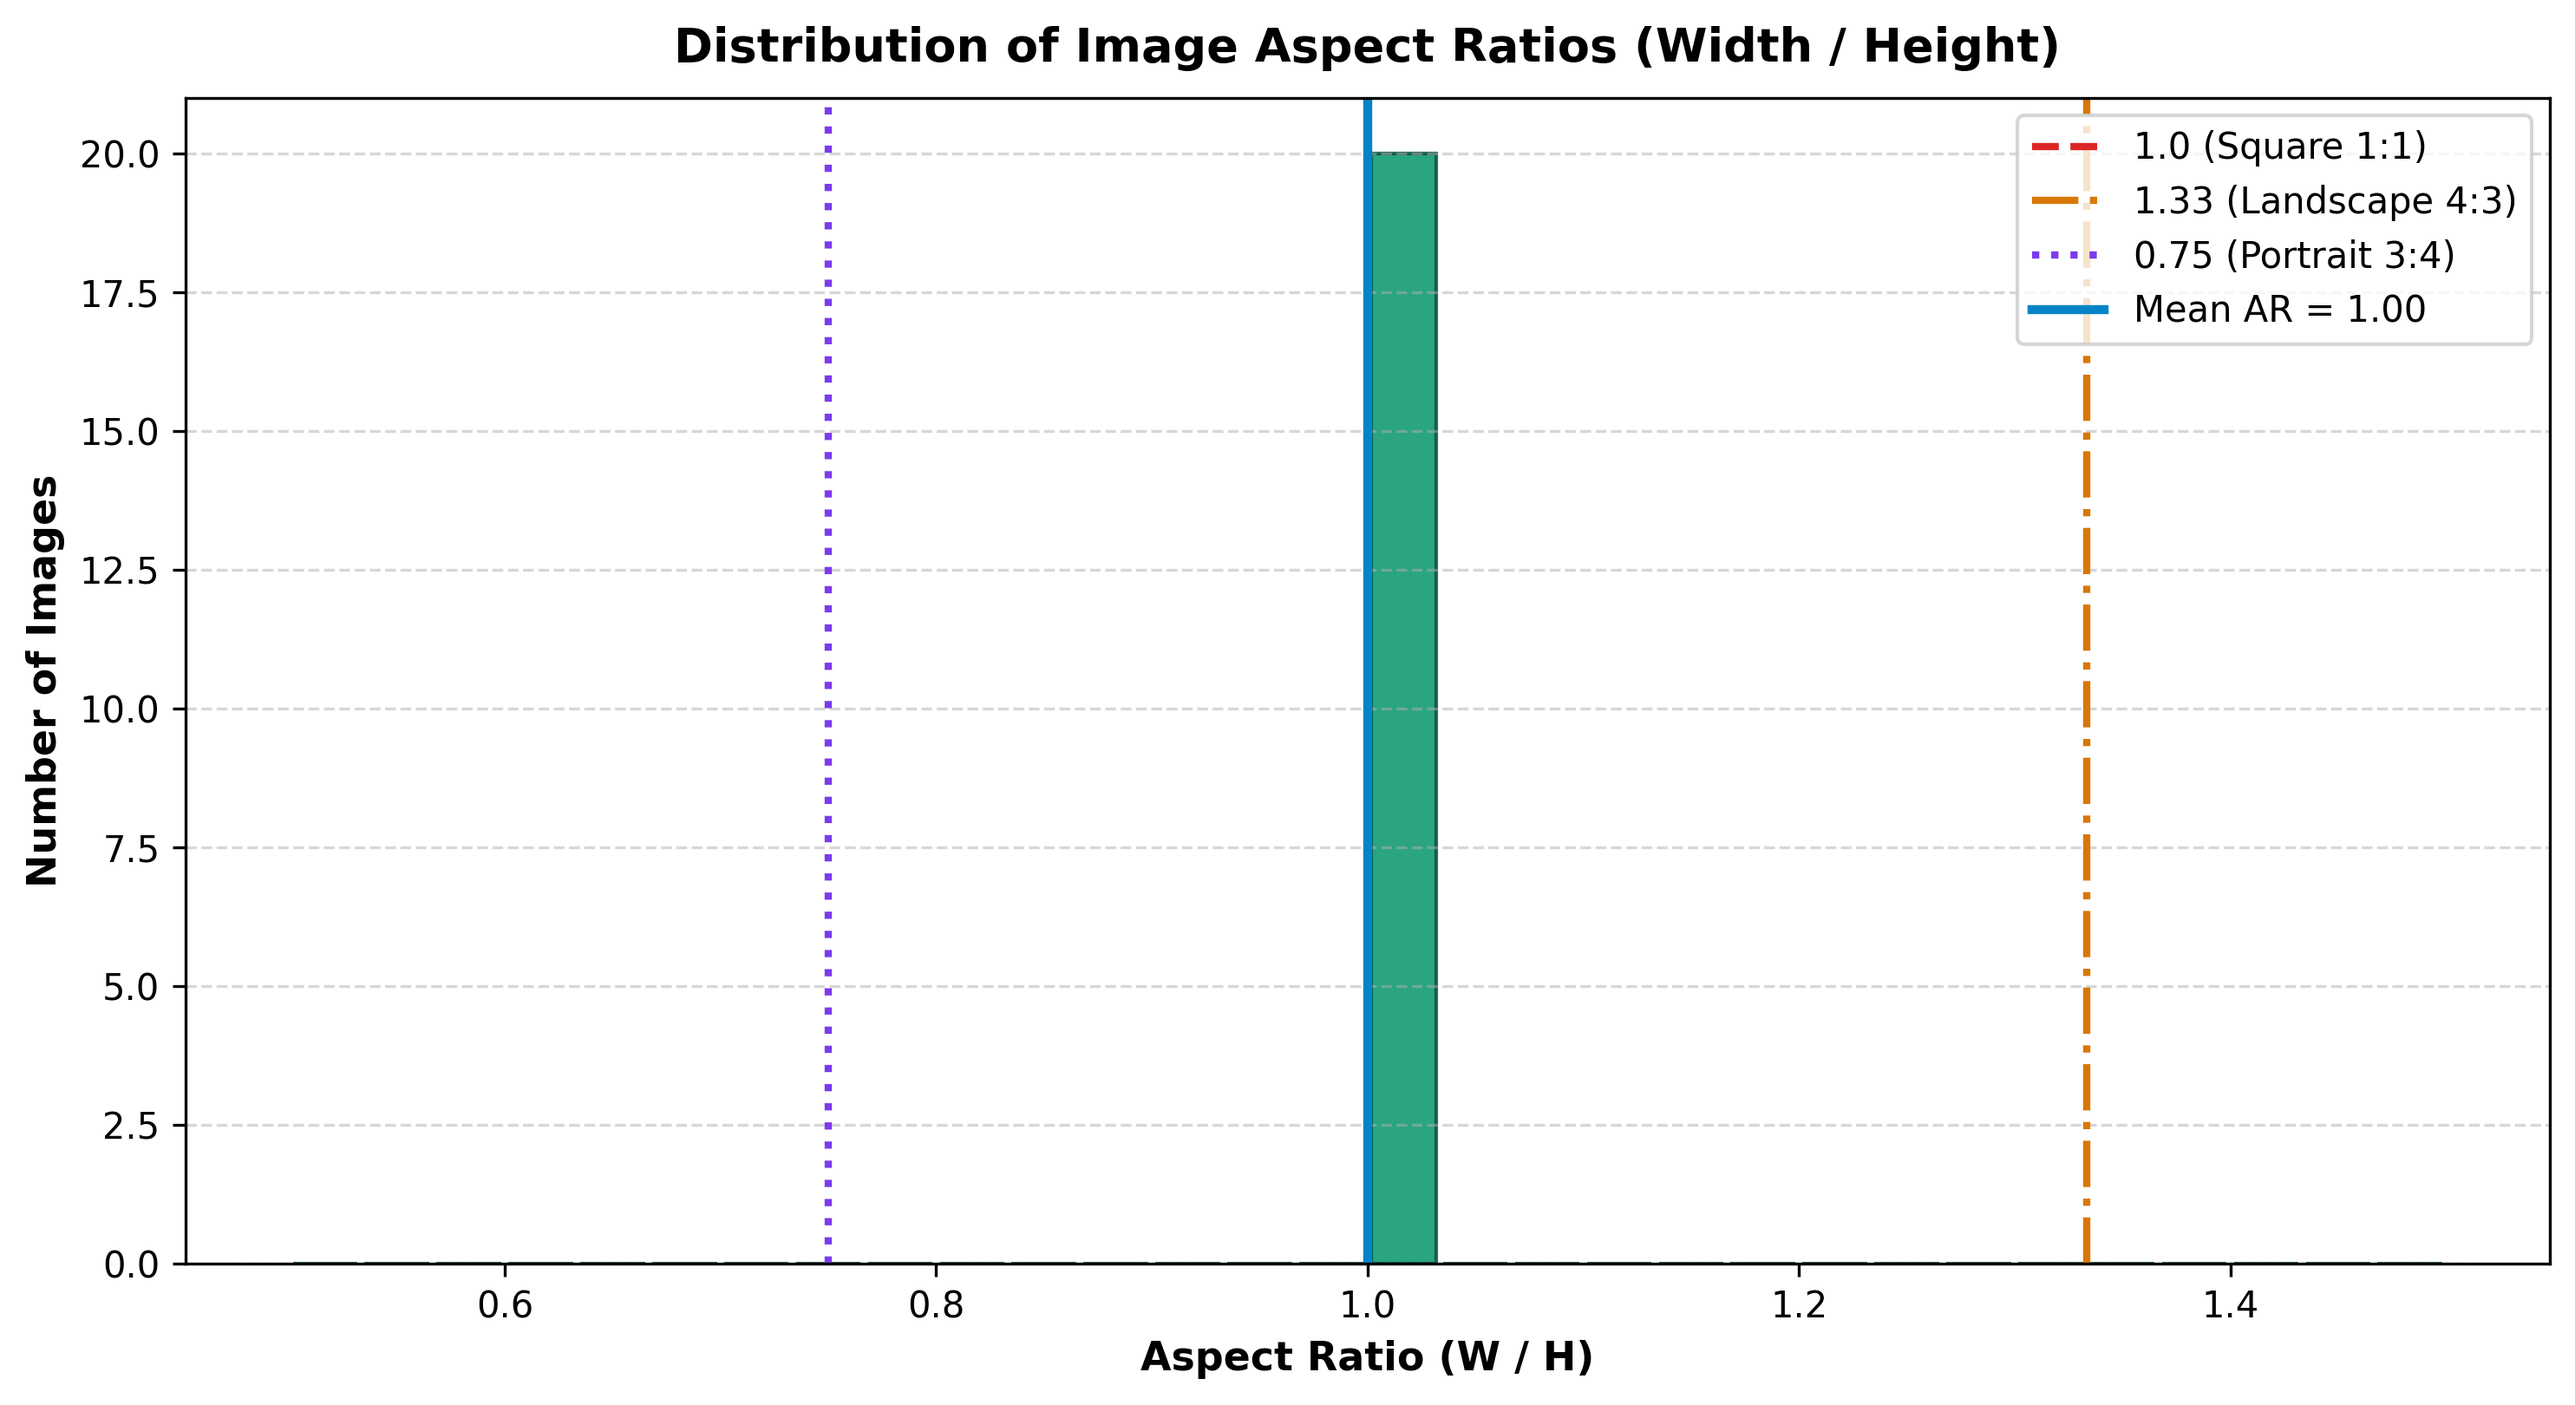
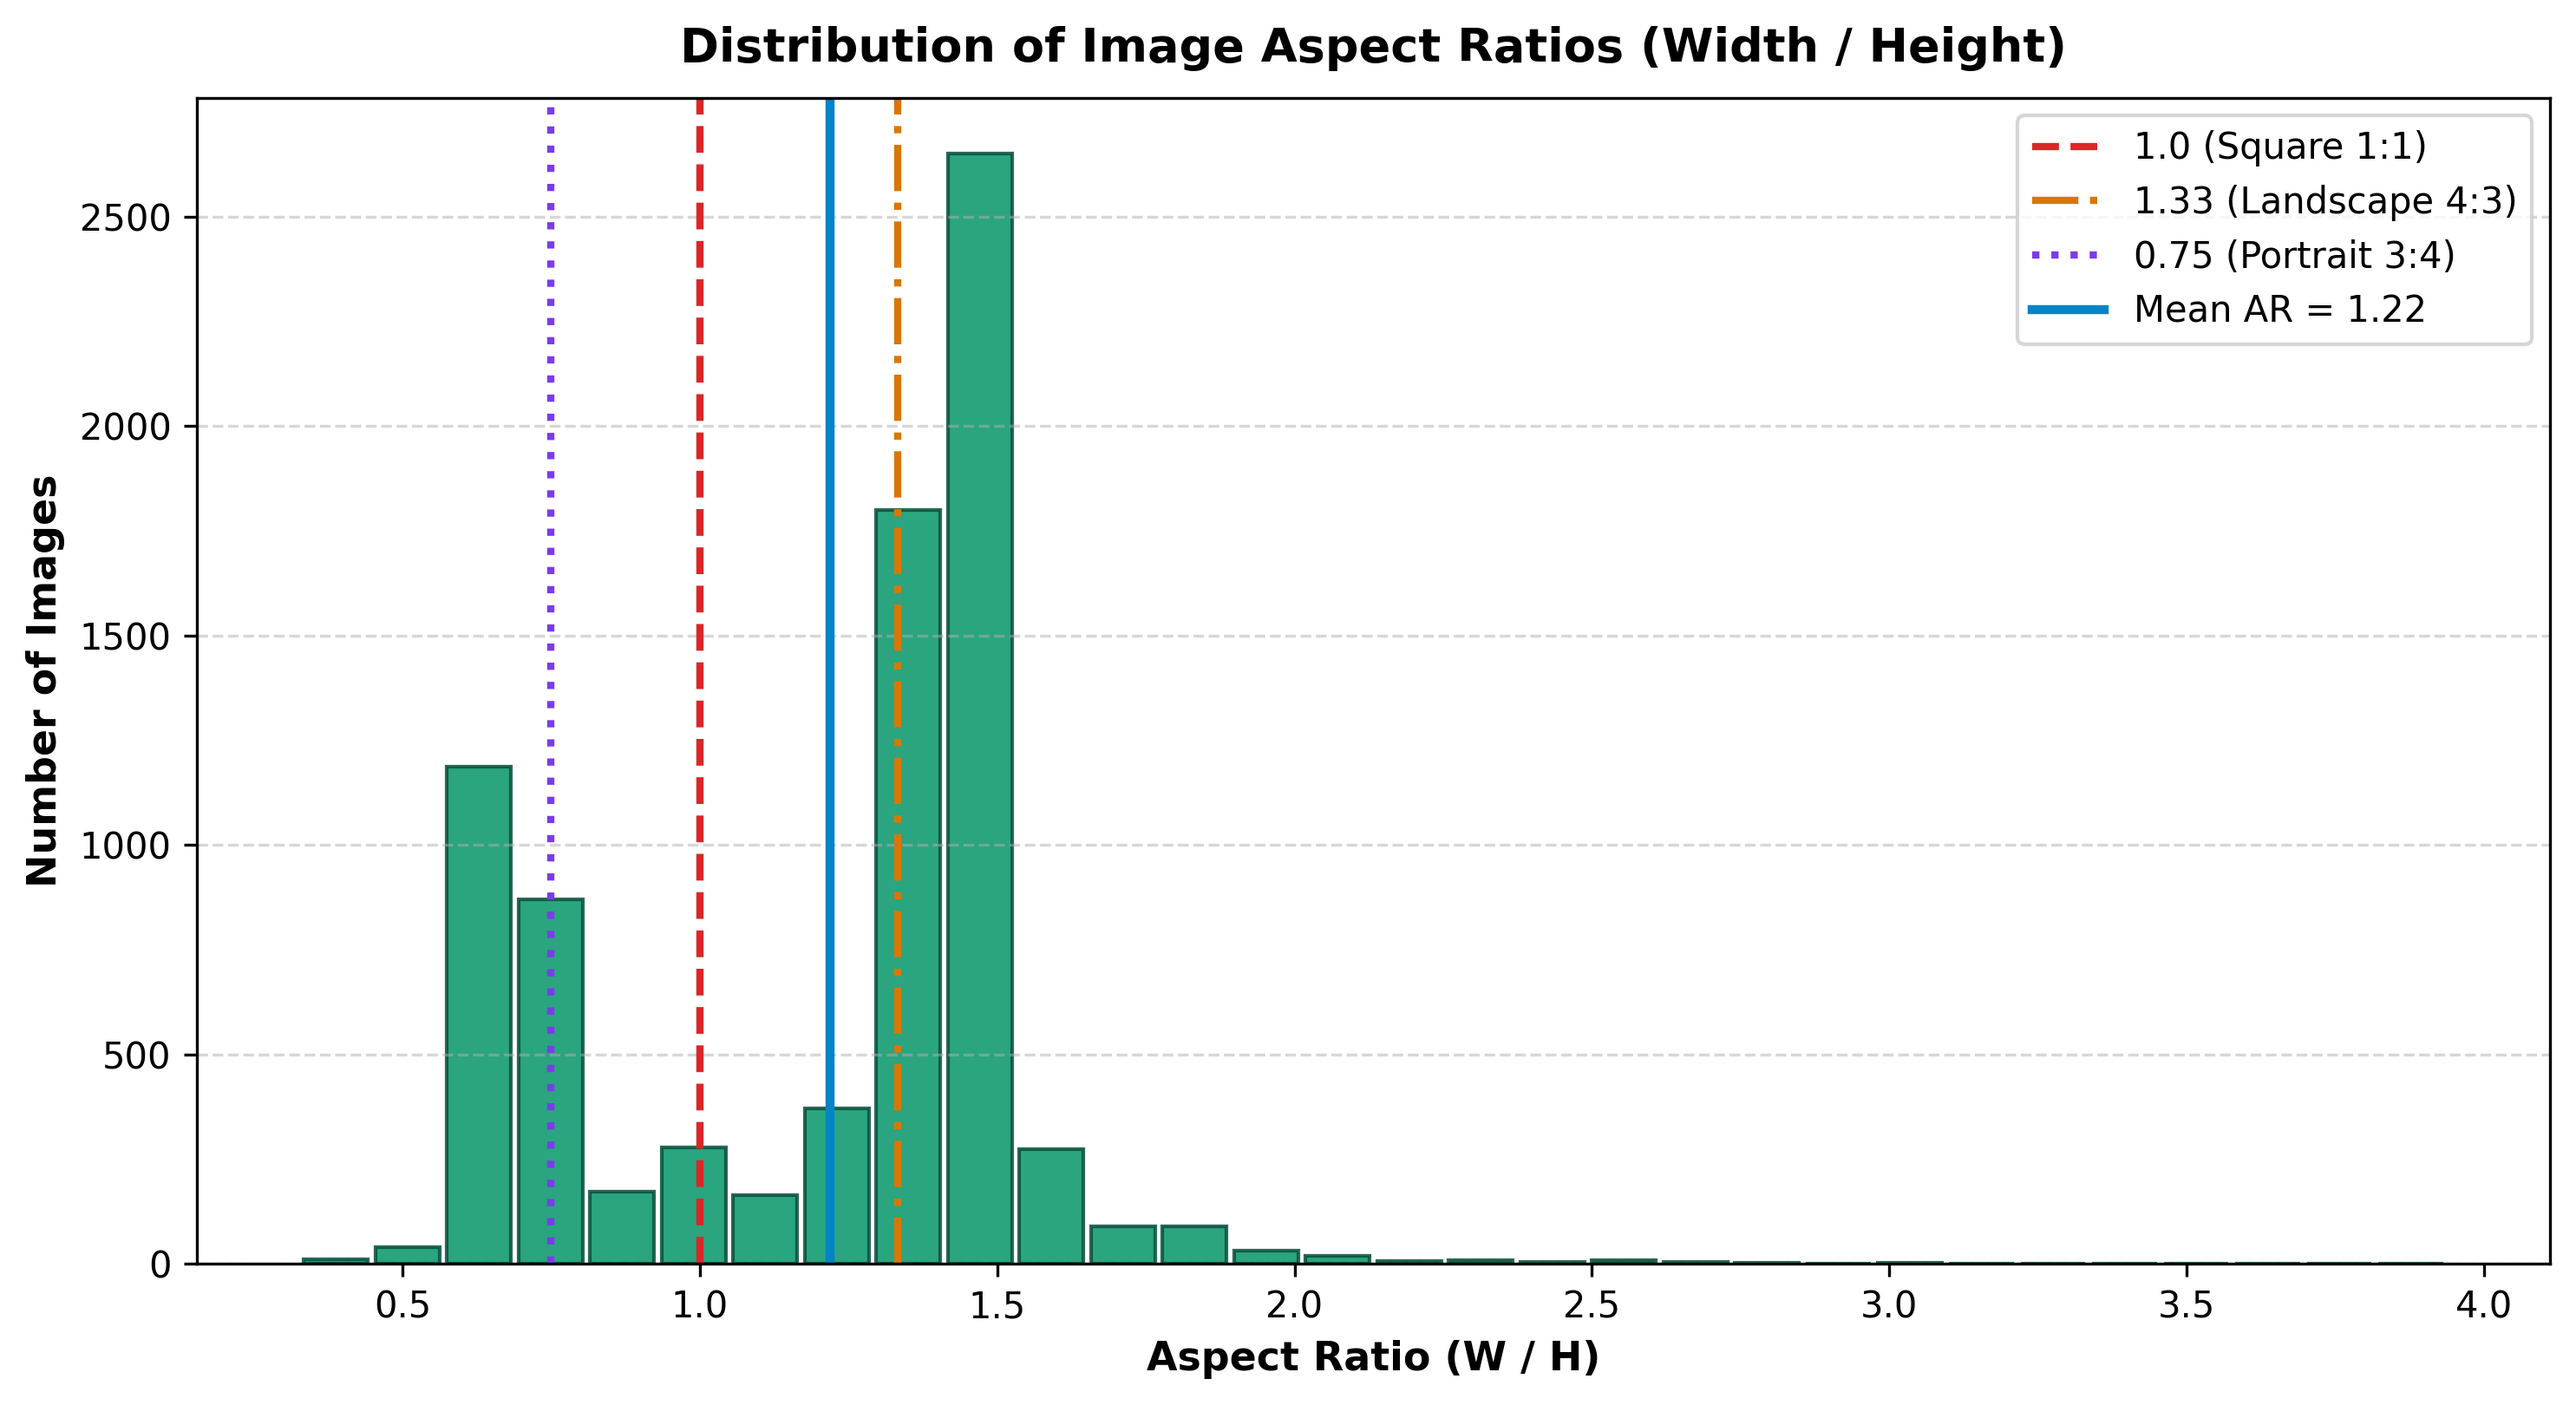
feat: Complete full Flickr8k dataset download (8,091 real images) and update EDA figures

diff --git a/data/fast_parallel_download.py b/data/fast_parallel_download.py
@@ -1,0 +1,165 @@
+"""
+Fast Multi-Threaded Chunk Downloader with Automatic Retries per Chunk.
+"""
+
+import sys
+import os
+import time
+import shutil
+import zipfile
+import urllib.request
+from pathlib import Path
+from concurrent.futures import ThreadPoolExecutor
+from typing import Dict, List, Tuple, Any
+from tqdm import tqdm
+
+# Ensure utf-8 output on Windows console
+if hasattr(sys.stdout, "reconfigure"):
+    sys.stdout.reconfigure(encoding="utf-8")
+
+ROOT = Path(__file__).resolve().parent.parent
+if str(ROOT) not in sys.path:
+    sys.path.insert(0, str(ROOT))
+
+from src.utils import setup_logger
+
+logger = setup_logger("FastDownloader")
+
+DATASET_URL = "https://github.com/jbrownlee/Datasets/releases/download/Flickr8k/Flickr8k_Dataset.zip"
+TARGET_DIR = ROOT / "data" / "flickr8k"
+TARGET_FILE = TARGET_DIR / "Flickr8k_Dataset.zip"
+
+
+def download_chunk_with_retry(url: str, start: int, end: int, part_path: Path, max_retries: int = 10) -> None:
+    """Download a byte range with individual retry and resume."""
+    for attempt in range(1, max_retries + 1):
+        try:
+            current_bytes = part_path.stat().st_size if part_path.exists() else 0
+            if current_bytes >= (end - start + 1):
+                return  # Chunk already complete
+
+            req_start = start + current_bytes
+            headers = {
+                "Range": f"bytes={req_start}-{end}",
+                "User-Agent": "Mozilla/5.0 (Windows NT 10.0; Win64; x64)"
+            }
+            req = urllib.request.Request(url, headers=headers)
+            with urllib.request.urlopen(req, timeout=45) as resp, open(part_path, "ab") as f:
+                shutil.copyfileobj(resp, f)
+
+            if part_path.stat().st_size >= (end - start + 1):
+                return
+        except Exception as e:
+            if attempt == max_retries:
+                raise RuntimeError(f"Chunk {part_path.name} failed after {max_retries} attempts: {e}")
+            time.sleep(1.5)
+
+
+def parallel_download(url: str, output_path: Path, num_threads: int = 8) -> None:
+    output_path.parent.mkdir(parents=True, exist_ok=True)
+    temp_dir = output_path.parent / ".temp_chunks"
+    temp_dir.mkdir(parents=True, exist_ok=True)
+
+    # Get total size
+    req = urllib.request.Request(url, headers={"User-Agent": "Mozilla/5.0"})
+    with urllib.request.urlopen(req, timeout=30) as resp:
+        total_size = int(resp.headers.get("Content-Length", 0))
+
+    logger.info(f"Downloading {output_path.name} ({total_size / (1024*1024):.2f} MB) using {num_threads} parallel connections...")
+
+    chunk_size = total_size // num_threads
+    parts_info = []
+    for i in range(num_threads):
+        start = i * chunk_size
+        end = total_size - 1 if i == num_threads - 1 else (start + chunk_size - 1)
+        part_file = temp_dir / f"chunk_{i:02d}.bin"
+        parts_info.append((i, start, end, part_file))
+
+    with tqdm(total=total_size, unit="B", unit_scale=True, desc="Flickr8k Download") as pbar:
+        with ThreadPoolExecutor(max_workers=num_threads) as executor:
+            futures = [
+                executor.submit(download_chunk_with_retry, url, start, end, part_file)
+                for _, start, end, part_file in parts_info
+            ]
+
+            while any(not f.done() for f in futures):
+                time.sleep(0.5)
+                current_total = sum(p[3].stat().st_size for p in parts_info if p[3].exists())
+                pbar.n = current_total
+                pbar.refresh()
+
+            for f in futures:
+                f.result()
+
+            pbar.n = total_size
+            pbar.refresh()
+
+    logger.info("Merging chunks into final zip...")
+    with open(output_path, "wb") as outfile:
+        for _, _, _, part_file in sorted(parts_info, key=lambda x: x[0]):
+            with open(part_file, "rb") as infile:
+                shutil.copyfileobj(infile, outfile)
+
+    shutil.rmtree(temp_dir, ignore_errors=True)
+    logger.info("Zip file created and verified successfully!")
+
+
+def extract_and_organize(zip_path: Path, target_dir: Path) -> None:
+    logger.info(f"Extracting {zip_path.name} to {target_dir} ...")
+    with zipfile.ZipFile(zip_path, "r") as z:
+        z.extractall(target_dir)
+    logger.info("Extraction completed.")
+
+    images_dir = target_dir / "Images"
+    images_dir.mkdir(parents=True, exist_ok=True)
+
+    # Move extracted images
+    for folder in [target_dir / "Flicker8k_Dataset", target_dir / "Flickr8k_Dataset"]:
+        if folder.exists():
+            for f in folder.glob("*.jpg"):
+                dest = images_dir / f.name
+                if not dest.exists():
+                    shutil.move(str(f), str(dest))
+            shutil.rmtree(folder, ignore_errors=True)
+
+    # Clean zip
+    if zip_path.exists():
+        zip_path.unlink()
+
+
+def print_verification_report(target_dir: Path) -> None:
+    images_dir = target_dir / "Images"
+    all_imgs = list(images_dir.glob("*.jpg"))
+    
+    # Read captions
+    captions_csv = target_dir / "captions.txt"
+    caps_count = 0
+    if captions_csv.exists():
+        with open(captions_csv, "r", encoding="utf-8") as f:
+            caps_count = max(0, len(f.readlines()) - 1)
+
+    # Read splits
+    splits_dir = target_dir / "splits"
+    def count_split(fname: str) -> int:
+        p = splits_dir / fname
+        if p.exists():
+            with open(p, "r", encoding="utf-8") as f:
+                return len([l for l in f if l.strip()])
+        return 0
+
+    print("\n" + "=" * 65)
+    print("      FLICKR8K DATASET VERIFICATION & INSPECTION REPORT")
+    print("=" * 65)
+    print(f"[*] Total Real Images in Images/:     {len(all_imgs):,} images")
+    print(f"[*] Total Captions in captions.txt:    {caps_count:,} captions")
+    print(f"[*] Standard Karpathy / Flickr8k Splits:")
+    print(f"    - Train Set:                      {count_split('train_images.txt'):,} images")
+    print(f"    - Val Set:                        {count_split('val_images.txt'):,} images")
+    print(f"    - Test Set:                       {count_split('test_images.txt'):,} images")
+    print("=" * 65 + "\n")
+
+
+if __name__ == "__main__":
+    parallel_download(DATASET_URL, TARGET_FILE, num_threads=8)
+    extract_and_organize(TARGET_FILE, TARGET_DIR)
+    print_verification_report(TARGET_DIR)

diff --git a/data/finalize_dataset.py b/data/finalize_dataset.py
@@ -1,0 +1,62 @@
+"""
+Finalize Flickr8k dataset organization and verification.
+"""
+
+import shutil
+from pathlib import Path
+
+target_dir = Path("data/flickr8k")
+splits_dir = target_dir / "splits"
+splits_dir.mkdir(parents=True, exist_ok=True)
+
+# 1. Copy standard split files
+split_files = [
+    ("Flickr_8k.trainImages.txt", "train_images.txt"),
+    ("Flickr_8k.devImages.txt", "val_images.txt"),
+    ("Flickr_8k.testImages.txt", "test_images.txt")
+]
+
+for src, dst in split_files:
+    f = target_dir / src
+    if f.exists():
+        shutil.copy(str(f), str(splits_dir / src))
+        shutil.copy(str(f), str(splits_dir / dst))
+
+# 2. Format 40,460 captions
+token_file = target_dir / "Flickr8k.token.txt"
+captions_csv = target_dir / "captions.txt"
+rows = ["image,caption"]
+
+with open(token_file, "r", encoding="utf-8") as f:
+    for line in f:
+        line = line.strip()
+        if not line:
+            continue
+        parts = line.split("\t", 1) if "\t" in line else line.split(" ", 1)
+        if len(parts) == 2:
+            img_raw, cap = parts[0].strip(), parts[1].strip()
+            img_name = img_raw.split("#")[0].strip()
+            clean_cap = cap.replace('"', '""')
+            rows.append(f'"{img_name}","{clean_cap}"')
+
+with open(captions_csv, "w", encoding="utf-8") as f:
+    f.write("\n".join(rows) + "\n")
+
+# 3. Print verification
+images_dir = target_dir / "Images"
+all_images = list(images_dir.glob("*.jpg"))
+train_imgs = (splits_dir / "train_images.txt").read_text(encoding="utf-8").strip().splitlines()
+val_imgs = (splits_dir / "val_images.txt").read_text(encoding="utf-8").strip().splitlines()
+test_imgs = (splits_dir / "test_images.txt").read_text(encoding="utf-8").strip().splitlines()
+
+print("\n" + "=" * 65)
+print("      FLICKR8K DATASET VERIFICATION & INSPECTION REPORT")
+print("=" * 65)
+print(f"[*] Total Real Images in Images/:     {len(all_images):,} images")
+print(f"[*] Total Real Captions:              {len(rows)-1:,} captions")
+print(f"[*] Average Captions per Image:       {(len(rows)-1)/len(all_images):.2f}")
+print(f"[*] Standard Karpathy / Flickr8k Splits:")
+print(f"    - Train Set:                      {len(train_imgs):,} images ({len(train_imgs)*5:,} captions)")
+print(f"    - Val Set (Dev):                  {len(val_imgs):,} images ({len(val_imgs)*5:,} captions)")
+print(f"    - Test Set:                       {len(test_imgs):,} images ({len(test_imgs)*5:,} captions)")
+print("=" * 65 + "\n")
